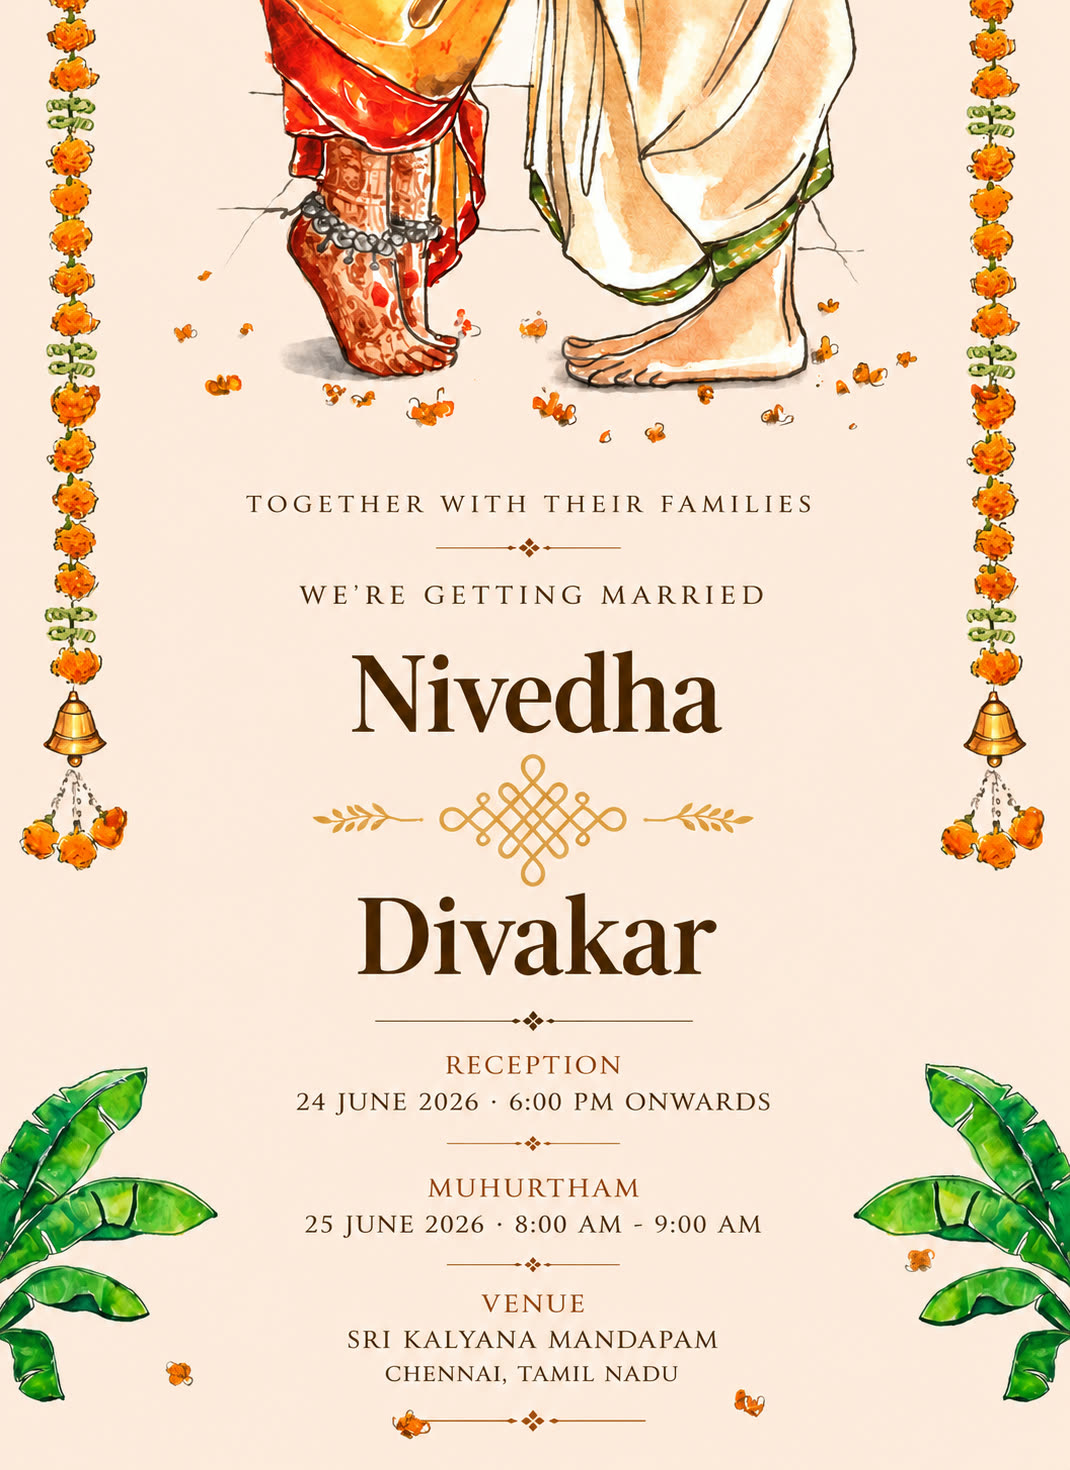
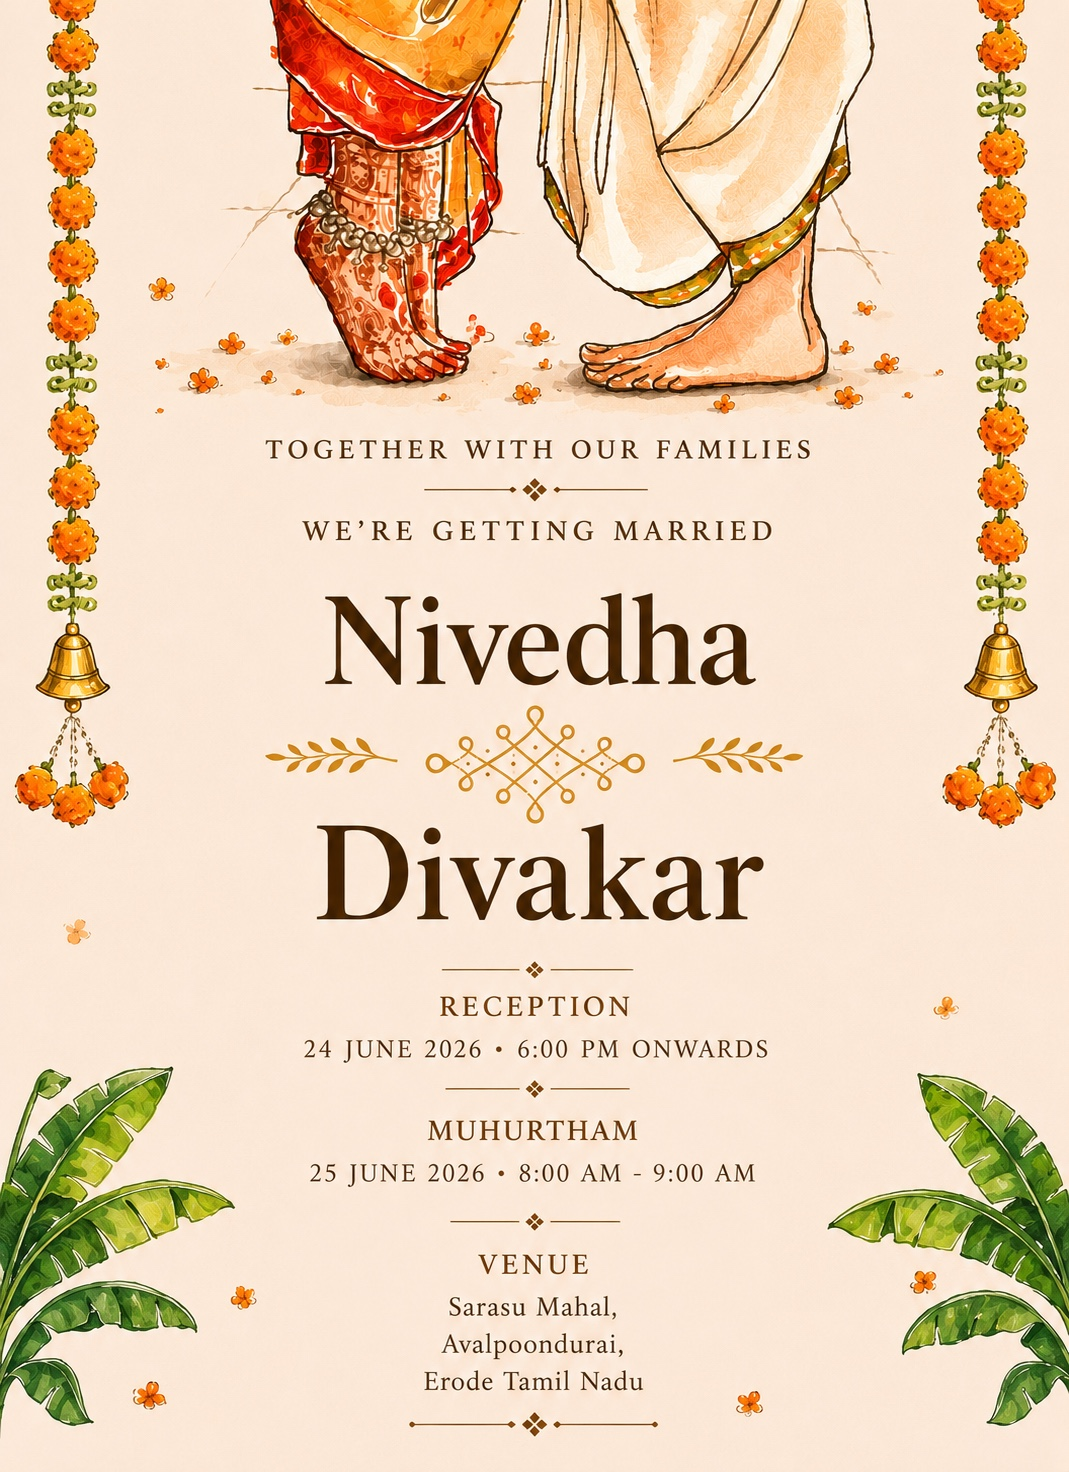
Fix share preview thumbnail for link unfurling.
Regenerate share-thumbnail2-og.jpg from the updated PNG and bump og:image cache version.

diff --git a/index.html b/index.html
@@ -18,15 +18,15 @@
     <meta property="og:url" content="https://mr-dkr.github.io/wedding-invite/" />
     <meta
       property="og:image"
-      content="https://mr-dkr.github.io/wedding-invite/share-thumbnail2-og.jpg?v=20260526c"
+      content="https://mr-dkr.github.io/wedding-invite/share-thumbnail2-og.jpg?v=20260529a"
     />
     <meta
       property="og:image:secure_url"
-      content="https://mr-dkr.github.io/wedding-invite/share-thumbnail2-og.jpg?v=20260526c"
+      content="https://mr-dkr.github.io/wedding-invite/share-thumbnail2-og.jpg?v=20260529a"
     />
     <meta property="og:image:type" content="image/jpeg" />
-    <meta property="og:image:width" content="1070" />
-    <meta property="og:image:height" content="1470" />
+    <meta property="og:image:width" content="1069" />
+    <meta property="og:image:height" content="1472" />
     <meta property="og:image:alt" content="Wedding invitation for Nivedha and Divakar" />
     <meta name="twitter:card" content="summary_large_image" />
     <meta name="twitter:title" content="Nivedha &amp; Divakar — Wedding" />
@@ -36,7 +36,7 @@
     />
     <meta
       name="twitter:image"
-      content="https://mr-dkr.github.io/wedding-invite/share-thumbnail2-og.jpg?v=20260526c"
+      content="https://mr-dkr.github.io/wedding-invite/share-thumbnail2-og.jpg?v=20260529a"
     />
     <title>Nivedha &amp; Divakar — Wedding</title>
   </head>
